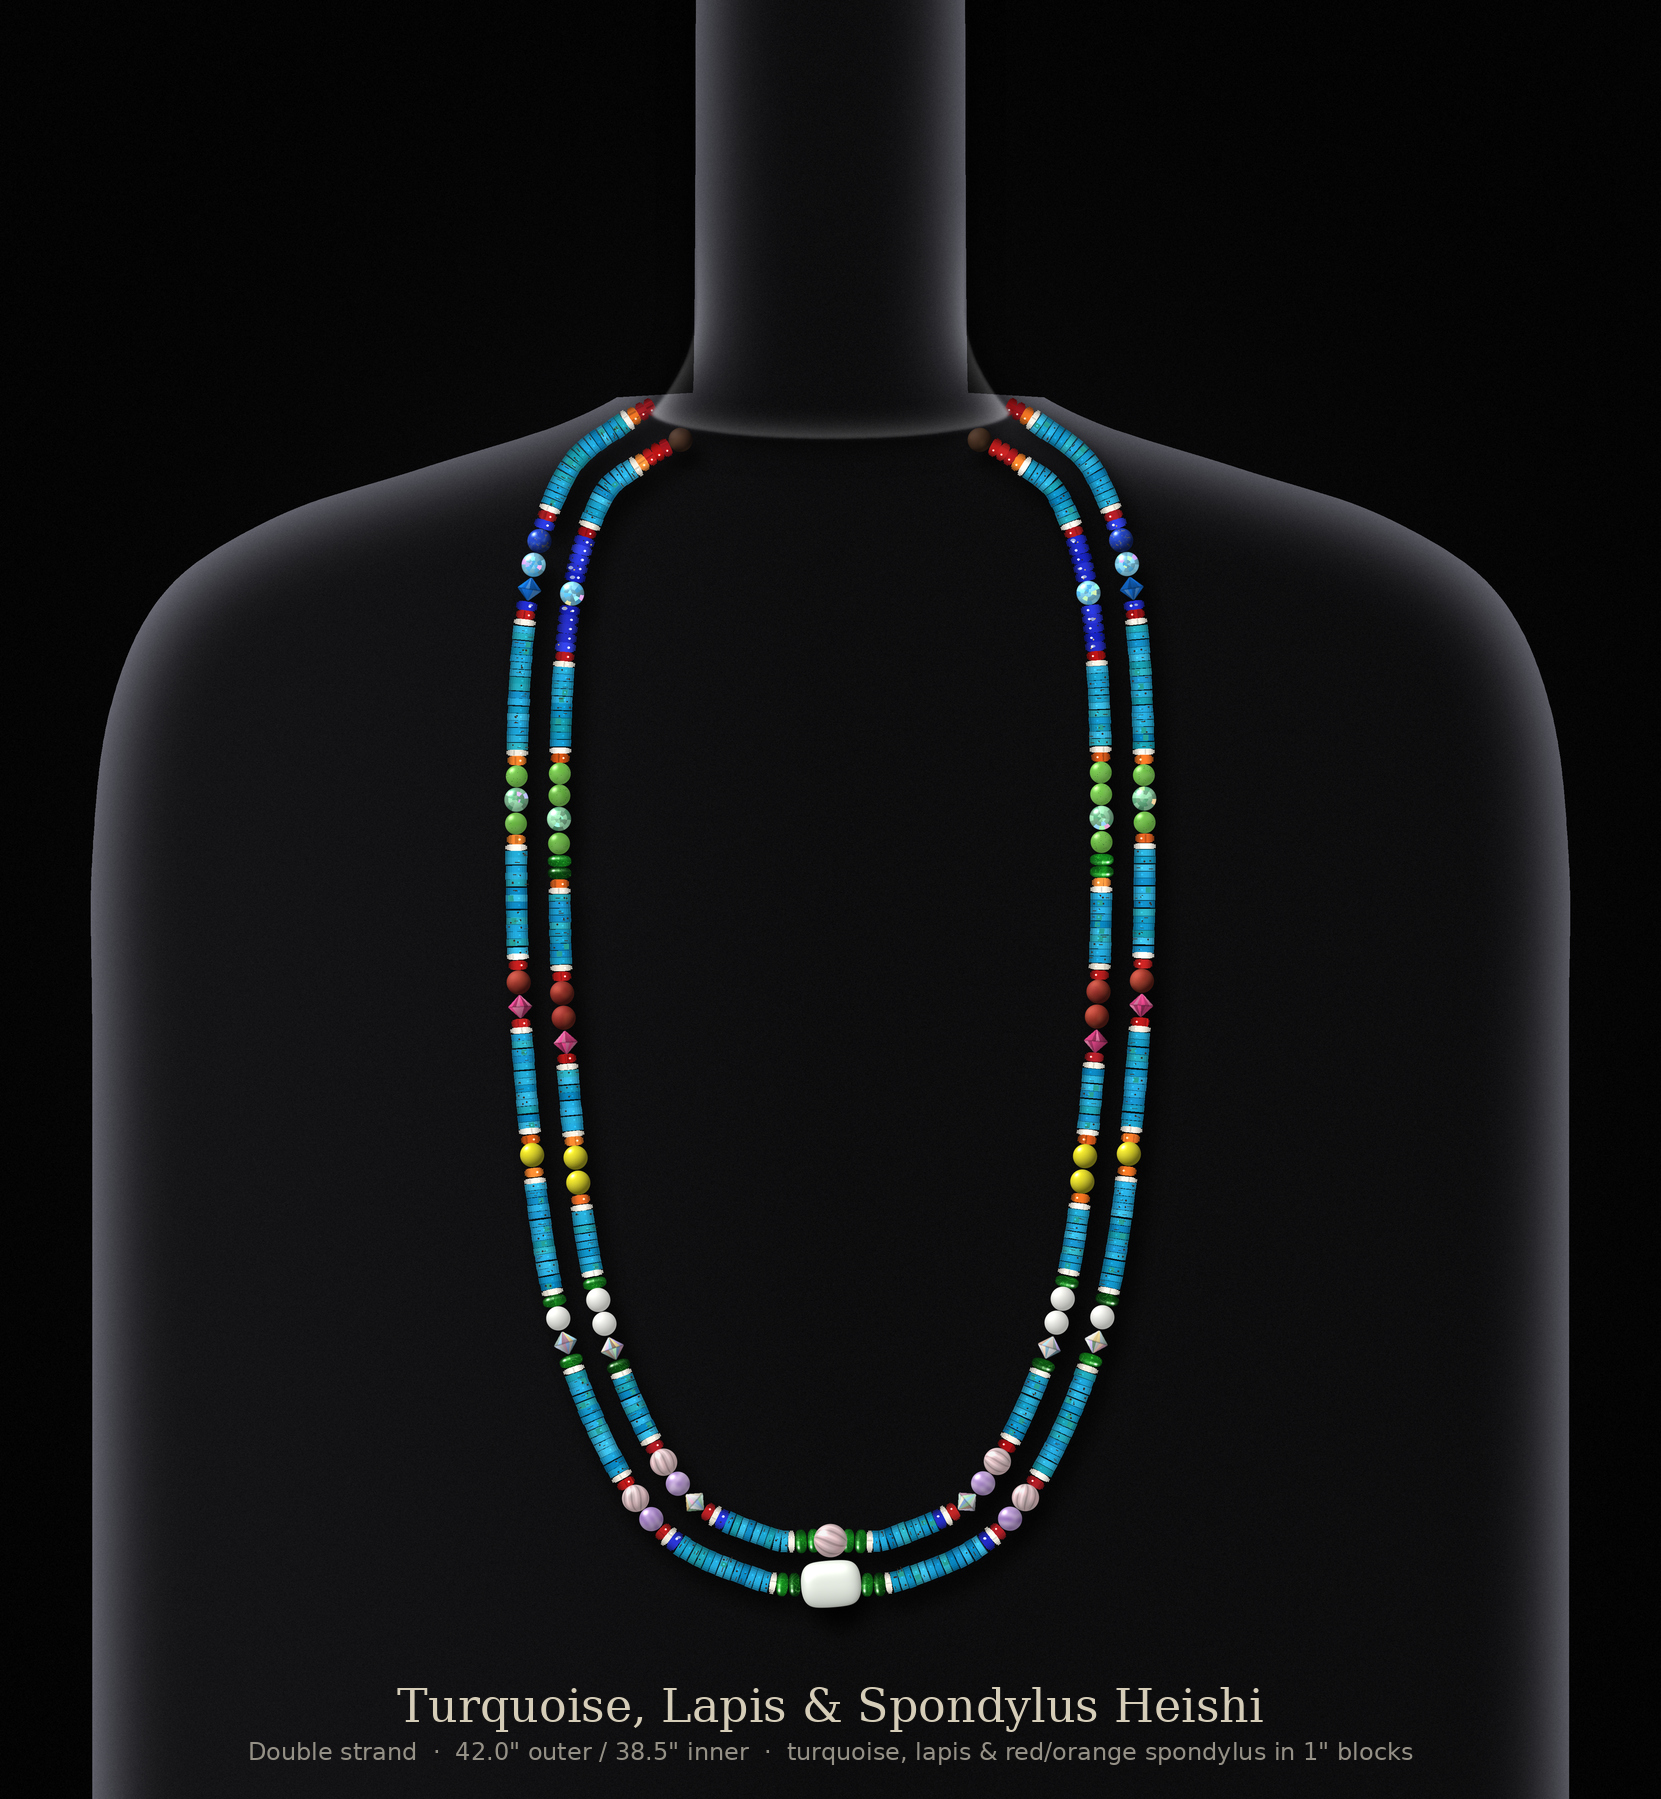
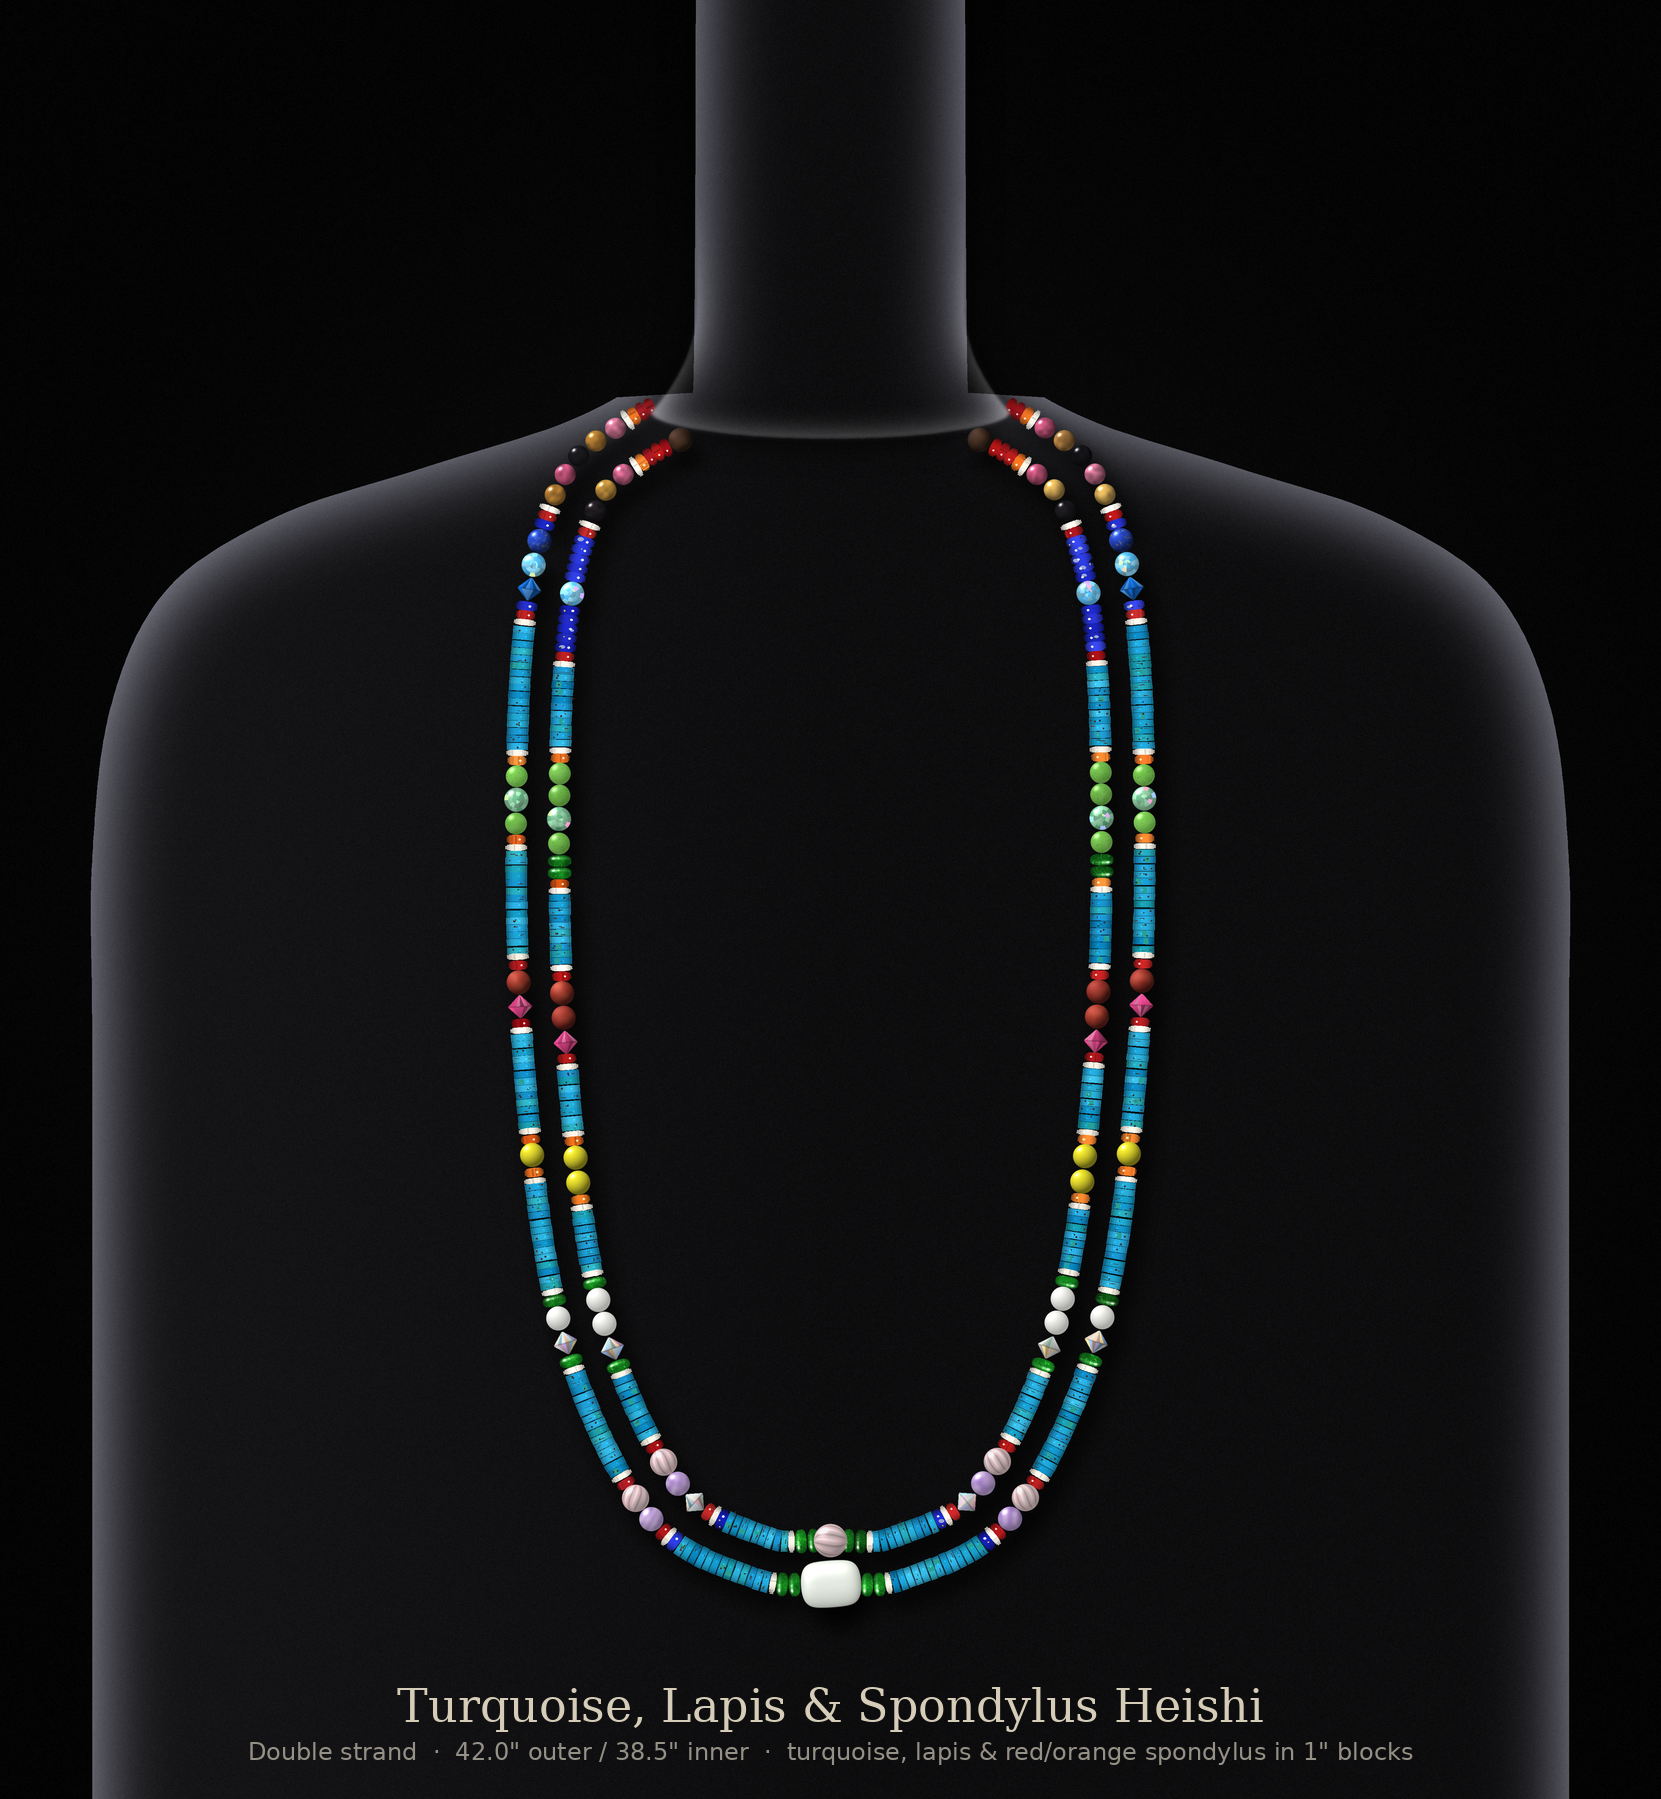
Version 5: top turquoise runs replaced by pink / tan / black tourmaline rounds (turquoise 27.6")
Claude-Session: https://claude.ai/code/session_014be1vF4Rdf8sv9Si75Gudv

diff --git a/necklace/render_necklace.py b/necklace/render_necklace.py
@@ -1191,6 +1191,7 @@ if V4:
         barrels = {0: [], 1: []}
         denim = []
         V4_USED = {}
+        TOP_TOURM = {}
         V5_CEN = {}
         for st, STN in (((1, INNER), (0, OUTER)) if V5 else ((0, OUTER), (1, INNER))):
             path, ss = (outer, s_out) if st == 0 else (inner, s_in)
@@ -1544,6 +1545,13 @@ if V4:
                         put(g + gl / nl * (q + 0.5), "lapisH")
                     lap -= nl
                     V4_USED["lapisH"] = V4_USED.get("lapisH", 0) + 2 * nl
+                elif V5 and gi in (2, 3) and gl >= 6.5:   # top runs: 7 mm pink / tan / black tourmaline rounds instead of turquoise
+                    nt = max(1, int(gl // 7.0))
+                    for q in range(nt):
+                        _tk = ("pink", "tan", "black")[q % 3]
+                        put(g + gl / nt * (q + 0.5), _tk)
+                        V4_USED[_tk] = V4_USED.get(_tk, 0) + 2
+                    TOP_TOURM[st] = TOP_TOURM.get(st, 0) + nt
                 else:
                     nt = max(1, int(round(gl / 2.4)))
                     for q in range(nt):
